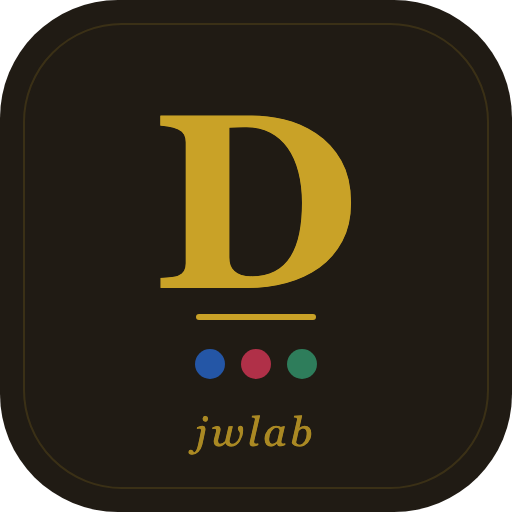
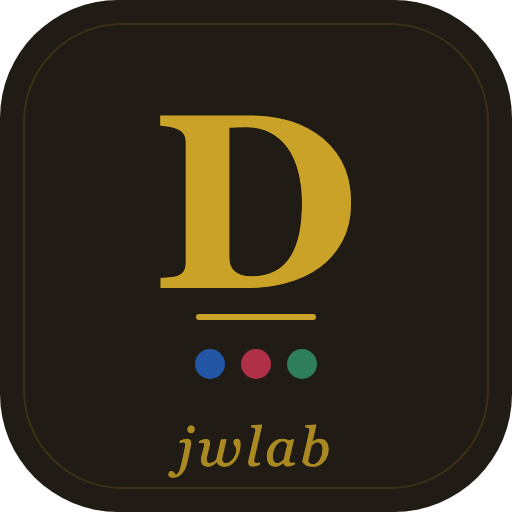
feat(de): jwlab 放大（40→54px，Jian「文字 jwlab 尽量大」，三站统一口径）
logo-mark.svg / favicon.svg 底部 jwlab：font-size 40→54、基线 446→466，
距三圆点 45px、距内框底 11px；全套 9 个位图 Chrome headless 重栅格化；
16 页图标引用 ?v=34→35 破缓存。

Changed region(s): [[0.3125, 0.8125, 0.6562, 0.9375]]

diff --git a/notion.html b/notion.html
@@ -9,11 +9,11 @@
 <link rel="preconnect" href="https://fonts.gstatic.com" crossorigin>
 <link href="https://fonts.googleapis.com/css2?family=Fraunces:ital,opsz,wght@0,9..144,300..700;1,9..144,300..700&family=IBM+Plex+Sans:wght@400;500;600;700&family=IBM+Plex+Mono:ital,wght@0,400;0,500;1,400&display=swap" rel="stylesheet">
 <link rel="stylesheet" href="assets/css/deutsch.css?v=60">
-<link rel="icon" type="image/svg+xml" href="assets/img/favicon.svg?v=34">
-<link rel="icon" type="image/png" sizes="32x32" href="assets/img/favicon-32.png?v=34">
-<link rel="icon" type="image/png" sizes="16x16" href="assets/img/favicon-16.png?v=34">
-<link rel="apple-touch-icon" sizes="180x180" href="assets/img/apple-touch-icon.png?v=34">
-<link rel="manifest" href="manifest.webmanifest?v=34">
+<link rel="icon" type="image/svg+xml" href="assets/img/favicon.svg?v=35">
+<link rel="icon" type="image/png" sizes="32x32" href="assets/img/favicon-32.png?v=35">
+<link rel="icon" type="image/png" sizes="16x16" href="assets/img/favicon-16.png?v=35">
+<link rel="apple-touch-icon" sizes="180x180" href="assets/img/apple-touch-icon.png?v=35">
+<link rel="manifest" href="manifest.webmanifest?v=35">
 <meta property="og:type" content="website">
 <meta property="og:image" content="https://jianwu-atlas.github.io/deutschheft/assets/img/og-image.png">
 <meta property="og:title" content="Notion 笔记与同步 · Mein Deutschheft">
@@ -92,7 +92,7 @@
 <script src="assets/js/i18n.js?v=36"></script>
 <script src="assets/js/deutsch.js?v=50"></script>
 <script src="assets/js/offline.js?v=1"></script>
-<script src="assets/js/annotate.js?v=34"></script>
-<script src="assets/js/notion-import.js?v=34"></script>
+<script src="assets/js/annotate.js?v=35"></script>
+<script src="assets/js/notion-import.js?v=35"></script>
 </body>
 </html>

diff --git a/formen.html b/formen.html
@@ -9,11 +9,11 @@
 <link rel="preconnect" href="https://fonts.gstatic.com" crossorigin>
 <link href="https://fonts.googleapis.com/css2?family=Fraunces:ital,opsz,wght@0,9..144,300..700;1,9..144,300..700&family=IBM+Plex+Sans:wght@400;500;600;700&family=IBM+Plex+Mono:ital,wght@0,400;0,500;1,400&display=swap" rel="stylesheet">
 <link rel="stylesheet" href="assets/css/deutsch.css?v=60">
-<link rel="icon" type="image/svg+xml" href="assets/img/favicon.svg?v=34">
-<link rel="icon" type="image/png" sizes="32x32" href="assets/img/favicon-32.png?v=34">
-<link rel="icon" type="image/png" sizes="16x16" href="assets/img/favicon-16.png?v=34">
-<link rel="apple-touch-icon" sizes="180x180" href="assets/img/apple-touch-icon.png?v=34">
-<link rel="manifest" href="manifest.webmanifest?v=34">
+<link rel="icon" type="image/svg+xml" href="assets/img/favicon.svg?v=35">
+<link rel="icon" type="image/png" sizes="32x32" href="assets/img/favicon-32.png?v=35">
+<link rel="icon" type="image/png" sizes="16x16" href="assets/img/favicon-16.png?v=35">
+<link rel="apple-touch-icon" sizes="180x180" href="assets/img/apple-touch-icon.png?v=35">
+<link rel="manifest" href="manifest.webmanifest?v=35">
 <meta property="og:type" content="website">
 <meta property="og:image" content="https://jianwu-atlas.github.io/deutschheft/assets/img/og-image.png">
 <meta property="og:title" content="词形变化 Formen · 变位/复数/比较级/变格 · Mein Deutschheft">
@@ -96,6 +96,6 @@
 <script src="assets/js/i18n.js?v=36"></script>
 <script src="assets/js/deutsch.js?v=50"></script>
 <script src="assets/js/offline.js?v=1"></script>
-<script src="assets/js/annotate.js?v=34"></script>
+<script src="assets/js/annotate.js?v=35"></script>
 </body>
 </html>

diff --git a/referenz.html b/referenz.html
@@ -9,11 +9,11 @@
 <link rel="preconnect" href="https://fonts.gstatic.com" crossorigin>
 <link href="https://fonts.googleapis.com/css2?family=Fraunces:ital,opsz,wght@0,9..144,300..700;1,9..144,300..700&family=IBM+Plex+Sans:wght@400;500;600;700&family=IBM+Plex+Mono:ital,wght@0,400;0,500;1,400&display=swap" rel="stylesheet">
 <link rel="stylesheet" href="assets/css/deutsch.css?v=60">
-<link rel="icon" type="image/svg+xml" href="assets/img/favicon.svg?v=34">
-<link rel="icon" type="image/png" sizes="32x32" href="assets/img/favicon-32.png?v=34">
-<link rel="icon" type="image/png" sizes="16x16" href="assets/img/favicon-16.png?v=34">
-<link rel="apple-touch-icon" sizes="180x180" href="assets/img/apple-touch-icon.png?v=34">
-<link rel="manifest" href="manifest.webmanifest?v=34">
+<link rel="icon" type="image/svg+xml" href="assets/img/favicon.svg?v=35">
+<link rel="icon" type="image/png" sizes="32x32" href="assets/img/favicon-32.png?v=35">
+<link rel="icon" type="image/png" sizes="16x16" href="assets/img/favicon-16.png?v=35">
+<link rel="apple-touch-icon" sizes="180x180" href="assets/img/apple-touch-icon.png?v=35">
+<link rel="manifest" href="manifest.webmanifest?v=35">
 <meta property="og:type" content="website">
 <meta property="og:image" content="https://jianwu-atlas.github.io/deutschheft/assets/img/og-image.png">
 <meta property="og:title" content="速查表 · 数字/时间/颜色/四季 · Mein Deutschheft">
@@ -141,6 +141,6 @@
 <script src="assets/js/i18n.js?v=36"></script>
 <script src="assets/js/deutsch.js?v=50"></script>
 <script src="assets/js/offline.js?v=1"></script>
-<script src="assets/js/annotate.js?v=34"></script>
+<script src="assets/js/annotate.js?v=35"></script>
 </body>
 </html>

diff --git a/sucheng.html b/sucheng.html
@@ -9,11 +9,11 @@
 <link rel="preconnect" href="https://fonts.gstatic.com" crossorigin>
 <link href="https://fonts.googleapis.com/css2?family=Fraunces:ital,opsz,wght@0,9..144,300..700;1,9..144,300..700&family=IBM+Plex+Sans:wght@400;500;600;700&family=IBM+Plex+Mono:ital,wght@0,400;0,500;1,400&display=swap" rel="stylesheet">
 <link rel="stylesheet" href="assets/css/deutsch.css?v=60">
-<link rel="icon" type="image/svg+xml" href="assets/img/favicon.svg?v=34">
-<link rel="icon" type="image/png" sizes="32x32" href="assets/img/favicon-32.png?v=34">
-<link rel="icon" type="image/png" sizes="16x16" href="assets/img/favicon-16.png?v=34">
-<link rel="apple-touch-icon" sizes="180x180" href="assets/img/apple-touch-icon.png?v=34">
-<link rel="manifest" href="manifest.webmanifest?v=34">
+<link rel="icon" type="image/svg+xml" href="assets/img/favicon.svg?v=35">
+<link rel="icon" type="image/png" sizes="32x32" href="assets/img/favicon-32.png?v=35">
+<link rel="icon" type="image/png" sizes="16x16" href="assets/img/favicon-16.png?v=35">
+<link rel="apple-touch-icon" sizes="180x180" href="assets/img/apple-touch-icon.png?v=35">
+<link rel="manifest" href="manifest.webmanifest?v=35">
 <meta property="og:type" content="website">
 <meta property="og:image" content="https://jianwu-atlas.github.io/deutschheft/assets/img/og-image.png">
 <meta property="og:title" content="教材精读 · 零基础德语速成 · Mein Deutschheft">
@@ -93,6 +93,6 @@
 <script src="assets/js/i18n.js?v=36"></script>
 <script src="assets/js/deutsch.js?v=50"></script>
 <script src="assets/js/offline.js?v=1"></script>
-<script src="assets/js/annotate.js?v=34"></script>
+<script src="assets/js/annotate.js?v=35"></script>
 </body>
 </html>

diff --git a/lehrbuch.html b/lehrbuch.html
@@ -9,11 +9,11 @@
 <link rel="preconnect" href="https://fonts.gstatic.com" crossorigin>
 <link href="https://fonts.googleapis.com/css2?family=Fraunces:ital,opsz,wght@0,9..144,300..700;1,9..144,300..700&family=IBM+Plex+Sans:wght@400;500;600;700&family=IBM+Plex+Mono:ital,wght@0,400;0,500;1,400&display=swap" rel="stylesheet">
 <link rel="stylesheet" href="assets/css/deutsch.css?v=60">
-<link rel="icon" type="image/svg+xml" href="assets/img/favicon.svg?v=34">
-<link rel="icon" type="image/png" sizes="32x32" href="assets/img/favicon-32.png?v=34">
-<link rel="icon" type="image/png" sizes="16x16" href="assets/img/favicon-16.png?v=34">
-<link rel="apple-touch-icon" sizes="180x180" href="assets/img/apple-touch-icon.png?v=34">
-<link rel="manifest" href="manifest.webmanifest?v=34">
+<link rel="icon" type="image/svg+xml" href="assets/img/favicon.svg?v=35">
+<link rel="icon" type="image/png" sizes="32x32" href="assets/img/favicon-32.png?v=35">
+<link rel="icon" type="image/png" sizes="16x16" href="assets/img/favicon-16.png?v=35">
+<link rel="apple-touch-icon" sizes="180x180" href="assets/img/apple-touch-icon.png?v=35">
+<link rel="manifest" href="manifest.webmanifest?v=35">
 <meta property="og:type" content="website">
 <meta property="og:image" content="https://jianwu-atlas.github.io/deutschheft/assets/img/og-image.png">
 <meta property="og:title" content="教材 Lehrbuch · 6 份教材 PDF · Mein Deutschheft">
@@ -95,6 +95,6 @@
 <script src="assets/js/i18n.js?v=36"></script>
 <script src="assets/js/deutsch.js?v=50"></script>
 <script src="assets/js/offline.js?v=1"></script>
-<script src="assets/js/annotate.js?v=34"></script>
+<script src="assets/js/annotate.js?v=35"></script>
 </body>
 </html>

diff --git a/w6000.html b/w6000.html
@@ -9,11 +9,11 @@
 <link rel="preconnect" href="https://fonts.gstatic.com" crossorigin>
 <link href="https://fonts.googleapis.com/css2?family=Fraunces:ital,opsz,wght@0,9..144,300..700;1,9..144,300..700&family=IBM+Plex+Sans:wght@400;500;600;700&family=IBM+Plex+Mono:ital,wght@0,400;0,500;1,400&display=swap" rel="stylesheet">
 <link rel="stylesheet" href="assets/css/deutsch.css?v=60">
-<link rel="icon" type="image/svg+xml" href="assets/img/favicon.svg?v=34">
-<link rel="icon" type="image/png" sizes="32x32" href="assets/img/favicon-32.png?v=34">
-<link rel="icon" type="image/png" sizes="16x16" href="assets/img/favicon-16.png?v=34">
-<link rel="apple-touch-icon" sizes="180x180" href="assets/img/apple-touch-icon.png?v=34">
-<link rel="manifest" href="manifest.webmanifest?v=34">
+<link rel="icon" type="image/svg+xml" href="assets/img/favicon.svg?v=35">
+<link rel="icon" type="image/png" sizes="32x32" href="assets/img/favicon-32.png?v=35">
+<link rel="icon" type="image/png" sizes="16x16" href="assets/img/favicon-16.png?v=35">
+<link rel="apple-touch-icon" sizes="180x180" href="assets/img/apple-touch-icon.png?v=35">
+<link rel="manifest" href="manifest.webmanifest?v=35">
 <meta property="og:type" content="website">
 <meta property="og:image" content="https://jianwu-atlas.github.io/deutschheft/assets/img/og-image.png">
 <meta property="og:title" content="6000 中级词汇 · Mein Deutschheft">
@@ -91,6 +91,6 @@
 <script src="assets/js/deutsch.js?v=50"></script>
 <script src="assets/js/offline.js?v=1"></script>
 <script src="assets/js/data/w6000-ipa.js?v=1"></script>
-<script src="assets/js/annotate.js?v=34"></script>
+<script src="assets/js/annotate.js?v=35"></script>
 </body>
 </html>

diff --git a/lektionen.html b/lektionen.html
@@ -9,11 +9,11 @@
 <link rel="preconnect" href="https://fonts.gstatic.com" crossorigin>
 <link href="https://fonts.googleapis.com/css2?family=Fraunces:ital,opsz,wght@0,9..144,300..700;1,9..144,300..700&family=IBM+Plex+Sans:wght@400;500;600;700&family=IBM+Plex+Mono:ital,wght@0,400;0,500;1,400&display=swap" rel="stylesheet">
 <link rel="stylesheet" href="assets/css/deutsch.css?v=60">
-<link rel="icon" type="image/svg+xml" href="assets/img/favicon.svg?v=34">
-<link rel="icon" type="image/png" sizes="32x32" href="assets/img/favicon-32.png?v=34">
-<link rel="icon" type="image/png" sizes="16x16" href="assets/img/favicon-16.png?v=34">
-<link rel="apple-touch-icon" sizes="180x180" href="assets/img/apple-touch-icon.png?v=34">
-<link rel="manifest" href="manifest.webmanifest?v=34">
+<link rel="icon" type="image/svg+xml" href="assets/img/favicon.svg?v=35">
+<link rel="icon" type="image/png" sizes="32x32" href="assets/img/favicon-32.png?v=35">
+<link rel="icon" type="image/png" sizes="16x16" href="assets/img/favicon-16.png?v=35">
+<link rel="apple-touch-icon" sizes="180x180" href="assets/img/apple-touch-icon.png?v=35">
+<link rel="manifest" href="manifest.webmanifest?v=35">
 <meta property="og:type" content="website">
 <meta property="og:image" content="https://jianwu-atlas.github.io/deutschheft/assets/img/og-image.png">
 <meta property="og:title" content="分级课程目录 · Mein Deutschheft">
@@ -92,6 +92,6 @@
 <script src="assets/js/i18n.js?v=36"></script>
 <script src="assets/js/deutsch.js?v=50"></script>
 <script src="assets/js/offline.js?v=1"></script>
-<script src="assets/js/annotate.js?v=34"></script>
+<script src="assets/js/annotate.js?v=35"></script>
 </body>
 </html>

diff --git a/grammatik.html b/grammatik.html
@@ -9,11 +9,11 @@
 <link rel="preconnect" href="https://fonts.gstatic.com" crossorigin>
 <link href="https://fonts.googleapis.com/css2?family=Fraunces:ital,opsz,wght@0,9..144,300..700;1,9..144,300..700&family=IBM+Plex+Sans:wght@400;500;600;700&family=IBM+Plex+Mono:ital,wght@0,400;0,500;1,400&display=swap" rel="stylesheet">
 <link rel="stylesheet" href="assets/css/deutsch.css?v=60">
-<link rel="icon" type="image/svg+xml" href="assets/img/favicon.svg?v=34">
-<link rel="icon" type="image/png" sizes="32x32" href="assets/img/favicon-32.png?v=34">
-<link rel="icon" type="image/png" sizes="16x16" href="assets/img/favicon-16.png?v=34">
-<link rel="apple-touch-icon" sizes="180x180" href="assets/img/apple-touch-icon.png?v=34">
-<link rel="manifest" href="manifest.webmanifest?v=34">
+<link rel="icon" type="image/svg+xml" href="assets/img/favicon.svg?v=35">
+<link rel="icon" type="image/png" sizes="32x32" href="assets/img/favicon-32.png?v=35">
+<link rel="icon" type="image/png" sizes="16x16" href="assets/img/favicon-16.png?v=35">
+<link rel="apple-touch-icon" sizes="180x180" href="assets/img/apple-touch-icon.png?v=35">
+<link rel="manifest" href="manifest.webmanifest?v=35">
 <meta property="og:type" content="website">
 <meta property="og:image" content="https://jianwu-atlas.github.io/deutschheft/assets/img/og-image.png">
 <meta property="og:title" content="语法十二讲 · Mein Deutschheft">
@@ -92,6 +92,6 @@
 <script src="assets/js/i18n.js?v=36"></script>
 <script src="assets/js/deutsch.js?v=50"></script>
 <script src="assets/js/offline.js?v=1"></script>
-<script src="assets/js/annotate.js?v=34"></script>
+<script src="assets/js/annotate.js?v=35"></script>
 </body>
 </html>

diff --git a/texte.html b/texte.html
@@ -9,11 +9,11 @@
 <link rel="preconnect" href="https://fonts.gstatic.com" crossorigin>
 <link href="https://fonts.googleapis.com/css2?family=Fraunces:ital,opsz,wght@0,9..144,300..700;1,9..144,300..700&family=IBM+Plex+Sans:wght@400;500;600;700&family=IBM+Plex+Mono:ital,wght@0,400;0,500;1,400&display=swap" rel="stylesheet">
 <link rel="stylesheet" href="assets/css/deutsch.css?v=60">
-<link rel="icon" type="image/svg+xml" href="assets/img/favicon.svg?v=34">
-<link rel="icon" type="image/png" sizes="32x32" href="assets/img/favicon-32.png?v=34">
-<link rel="icon" type="image/png" sizes="16x16" href="assets/img/favicon-16.png?v=34">
-<link rel="apple-touch-icon" sizes="180x180" href="assets/img/apple-touch-icon.png?v=34">
-<link rel="manifest" href="manifest.webmanifest?v=34">
+<link rel="icon" type="image/svg+xml" href="assets/img/favicon.svg?v=35">
+<link rel="icon" type="image/png" sizes="32x32" href="assets/img/favicon-32.png?v=35">
+<link rel="icon" type="image/png" sizes="16x16" href="assets/img/favicon-16.png?v=35">
+<link rel="apple-touch-icon" sizes="180x180" href="assets/img/apple-touch-icon.png?v=35">
+<link rel="manifest" href="manifest.webmanifest?v=35">
 <meta property="og:type" content="website">
 <meta property="og:image" content="https://jianwu-atlas.github.io/deutschheft/assets/img/og-image.png">
 <meta property="og:title" content="课文精读 · Mein Deutschheft">
@@ -95,6 +95,6 @@
 <script src="assets/js/player.js?v=1"></script>
 <script src="assets/js/deutsch.js?v=50"></script>
 <script src="assets/js/offline.js?v=1"></script>
-<script src="assets/js/annotate.js?v=34"></script>
+<script src="assets/js/annotate.js?v=35"></script>
 </body>
 </html>

diff --git a/kursplan.html b/kursplan.html
@@ -9,11 +9,11 @@
 <link rel="preconnect" href="https://fonts.gstatic.com" crossorigin>
 <link href="https://fonts.googleapis.com/css2?family=Fraunces:ital,opsz,wght@0,9..144,300..700;1,9..144,300..700&family=IBM+Plex+Sans:wght@400;500;600;700&family=IBM+Plex+Mono:ital,wght@0,400;0,500;1,400&display=swap" rel="stylesheet">
 <link rel="stylesheet" href="assets/css/deutsch.css?v=60">
-<link rel="icon" type="image/svg+xml" href="assets/img/favicon.svg?v=34">
-<link rel="icon" type="image/png" sizes="32x32" href="assets/img/favicon-32.png?v=34">
-<link rel="icon" type="image/png" sizes="16x16" href="assets/img/favicon-16.png?v=34">
-<link rel="apple-touch-icon" sizes="180x180" href="assets/img/apple-touch-icon.png?v=34">
-<link rel="manifest" href="manifest.webmanifest?v=34">
+<link rel="icon" type="image/svg+xml" href="assets/img/favicon.svg?v=35">
+<link rel="icon" type="image/png" sizes="32x32" href="assets/img/favicon-32.png?v=35">
+<link rel="icon" type="image/png" sizes="16x16" href="assets/img/favicon-16.png?v=35">
+<link rel="apple-touch-icon" sizes="180x180" href="assets/img/apple-touch-icon.png?v=35">
+<link rel="manifest" href="manifest.webmanifest?v=35">
 <meta property="og:type" content="website">
 <meta property="og:image" content="https://jianwu-atlas.github.io/deutschheft/assets/img/og-image.png">
 <meta property="og:title" content="课程大纲 · Mein Deutschheft">
@@ -92,6 +92,6 @@
 <script src="assets/js/i18n.js?v=36"></script>
 <script src="assets/js/deutsch.js?v=50"></script>
 <script src="assets/js/offline.js?v=1"></script>
-<script src="assets/js/annotate.js?v=34"></script>
+<script src="assets/js/annotate.js?v=35"></script>
 </body>
 </html>

diff --git a/uebungen.html b/uebungen.html
@@ -9,11 +9,11 @@
 <link rel="preconnect" href="https://fonts.gstatic.com" crossorigin>
 <link href="https://fonts.googleapis.com/css2?family=Fraunces:ital,opsz,wght@0,9..144,300..700;1,9..144,300..700&family=IBM+Plex+Sans:wght@400;500;600;700&family=IBM+Plex+Mono:ital,wght@0,400;0,500;1,400&display=swap" rel="stylesheet">
 <link rel="stylesheet" href="assets/css/deutsch.css?v=60">
-<link rel="icon" type="image/svg+xml" href="assets/img/favicon.svg?v=34">
-<link rel="icon" type="image/png" sizes="32x32" href="assets/img/favicon-32.png?v=34">
-<link rel="icon" type="image/png" sizes="16x16" href="assets/img/favicon-16.png?v=34">
-<link rel="apple-touch-icon" sizes="180x180" href="assets/img/apple-touch-icon.png?v=34">
-<link rel="manifest" href="manifest.webmanifest?v=34">
+<link rel="icon" type="image/svg+xml" href="assets/img/favicon.svg?v=35">
+<link rel="icon" type="image/png" sizes="32x32" href="assets/img/favicon-32.png?v=35">
+<link rel="icon" type="image/png" sizes="16x16" href="assets/img/favicon-16.png?v=35">
+<link rel="apple-touch-icon" sizes="180x180" href="assets/img/apple-touch-icon.png?v=35">
+<link rel="manifest" href="manifest.webmanifest?v=35">
 <meta property="og:type" content="website">
 <meta property="og:image" content="https://jianwu-atlas.github.io/deutschheft/assets/img/og-image.png">
 <meta property="og:title" content="互动练习 · Mein Deutschheft">
@@ -92,6 +92,6 @@
 <script src="assets/js/i18n.js?v=36"></script>
 <script src="assets/js/deutsch.js?v=50"></script>
 <script src="assets/js/offline.js?v=1"></script>
-<script src="assets/js/annotate.js?v=34"></script>
+<script src="assets/js/annotate.js?v=35"></script>
 </body>
 </html>

diff --git a/wortschatz.html b/wortschatz.html
@@ -9,11 +9,11 @@
 <link rel="preconnect" href="https://fonts.gstatic.com" crossorigin>
 <link href="https://fonts.googleapis.com/css2?family=Fraunces:ital,opsz,wght@0,9..144,300..700;1,9..144,300..700&family=IBM+Plex+Sans:wght@400;500;600;700&family=IBM+Plex+Mono:ital,wght@0,400;0,500;1,400&display=swap" rel="stylesheet">
 <link rel="stylesheet" href="assets/css/deutsch.css?v=60">
-<link rel="icon" type="image/svg+xml" href="assets/img/favicon.svg?v=34">
-<link rel="icon" type="image/png" sizes="32x32" href="assets/img/favicon-32.png?v=34">
-<link rel="icon" type="image/png" sizes="16x16" href="assets/img/favicon-16.png?v=34">
-<link rel="apple-touch-icon" sizes="180x180" href="assets/img/apple-touch-icon.png?v=34">
-<link rel="manifest" href="manifest.webmanifest?v=34">
+<link rel="icon" type="image/svg+xml" href="assets/img/favicon.svg?v=35">
+<link rel="icon" type="image/png" sizes="32x32" href="assets/img/favicon-32.png?v=35">
+<link rel="icon" type="image/png" sizes="16x16" href="assets/img/favicon-16.png?v=35">
+<link rel="apple-touch-icon" sizes="180x180" href="assets/img/apple-touch-icon.png?v=35">
+<link rel="manifest" href="manifest.webmanifest?v=35">
 <meta property="og:type" content="website">
 <meta property="og:image" content="https://jianwu-atlas.github.io/deutschheft/assets/img/og-image.png">
 <meta property="og:title" content="生词表 · Mein Deutschheft">
@@ -93,6 +93,6 @@
 <script src="assets/js/i18n.js?v=36"></script>
 <script src="assets/js/deutsch.js?v=50"></script>
 <script src="assets/js/offline.js?v=1"></script>
-<script src="assets/js/annotate.js?v=34"></script>
+<script src="assets/js/annotate.js?v=35"></script>
 </body>
 </html>
